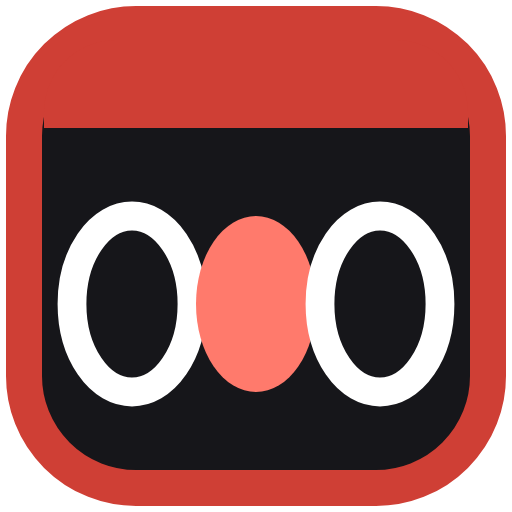
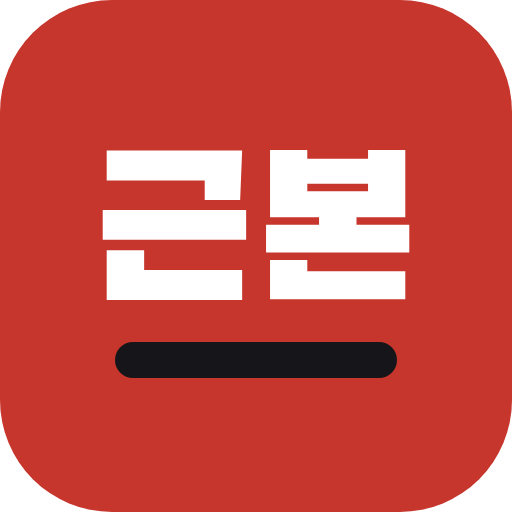
아이콘 교체: 굵은 고딕 '근본' + 밑줄 (학생 검정, 교사 빨강)
작은 탭 아이콘은 알아보기 쉽게 '근' 한 글자로 줄였다.

Claude-Session: https://claude.ai/code/session_01Fvsfan59jR3xNoqDofYVoS

diff --git a/teacher.html b/teacher.html
@@ -4,7 +4,7 @@
 <meta charset="utf-8">
 <meta name="viewport" content="width=device-width,initial-scale=1,viewport-fit=cover">
 <title>근본국어 교사</title>
-<link rel="icon" href="icons/teacher.svg" type="image/svg+xml">
+<link rel="icon" href="icons/teacher-favicon.svg" type="image/svg+xml">
 <link rel="icon" href="icons/teacher-32.png" sizes="32x32" type="image/png">
 <link rel="apple-touch-icon" href="icons/teacher-apple-touch-icon.png">
 <link rel="manifest" href="teacher.webmanifest">

diff --git a/index.html b/index.html
@@ -4,7 +4,7 @@
 <meta charset="utf-8">
 <meta name="viewport" content="width=device-width,initial-scale=1,viewport-fit=cover">
 <title>근본국어</title>
-<link rel="icon" href="icons/icon.svg" type="image/svg+xml">
+<link rel="icon" href="icons/favicon.svg" type="image/svg+xml">
 <link rel="icon" href="icons/favicon-32.png" sizes="32x32" type="image/png">
 <link rel="apple-touch-icon" href="icons/apple-touch-icon.png">
 <link rel="manifest" href="manifest.webmanifest">

diff --git a/README.md b/README.md
@@ -28,3 +28,5 @@
 - 교사 로그인 칸에 `@` 없이 아이디만 적으면 `js/config.js`의 `loginDomain`을 붙인다(예: `kmj` → `kmj@geunbongukeo.local`). 그 주소로 Supabase 교사 계정을 만들어 두면 된다.
 
 `js/vendor/supabase-2.118.0.js`는 [supabase-js](https://github.com/supabase/supabase-js) (MIT) 배포본이다.
+
+아이콘(`icons/`)의 글자는 [Black Han Sans](https://fonts.google.com/specimen/Black+Han+Sans) (SIL Open Font License 1.1) 글자 모양을 도형으로 바꾼 것이다.
